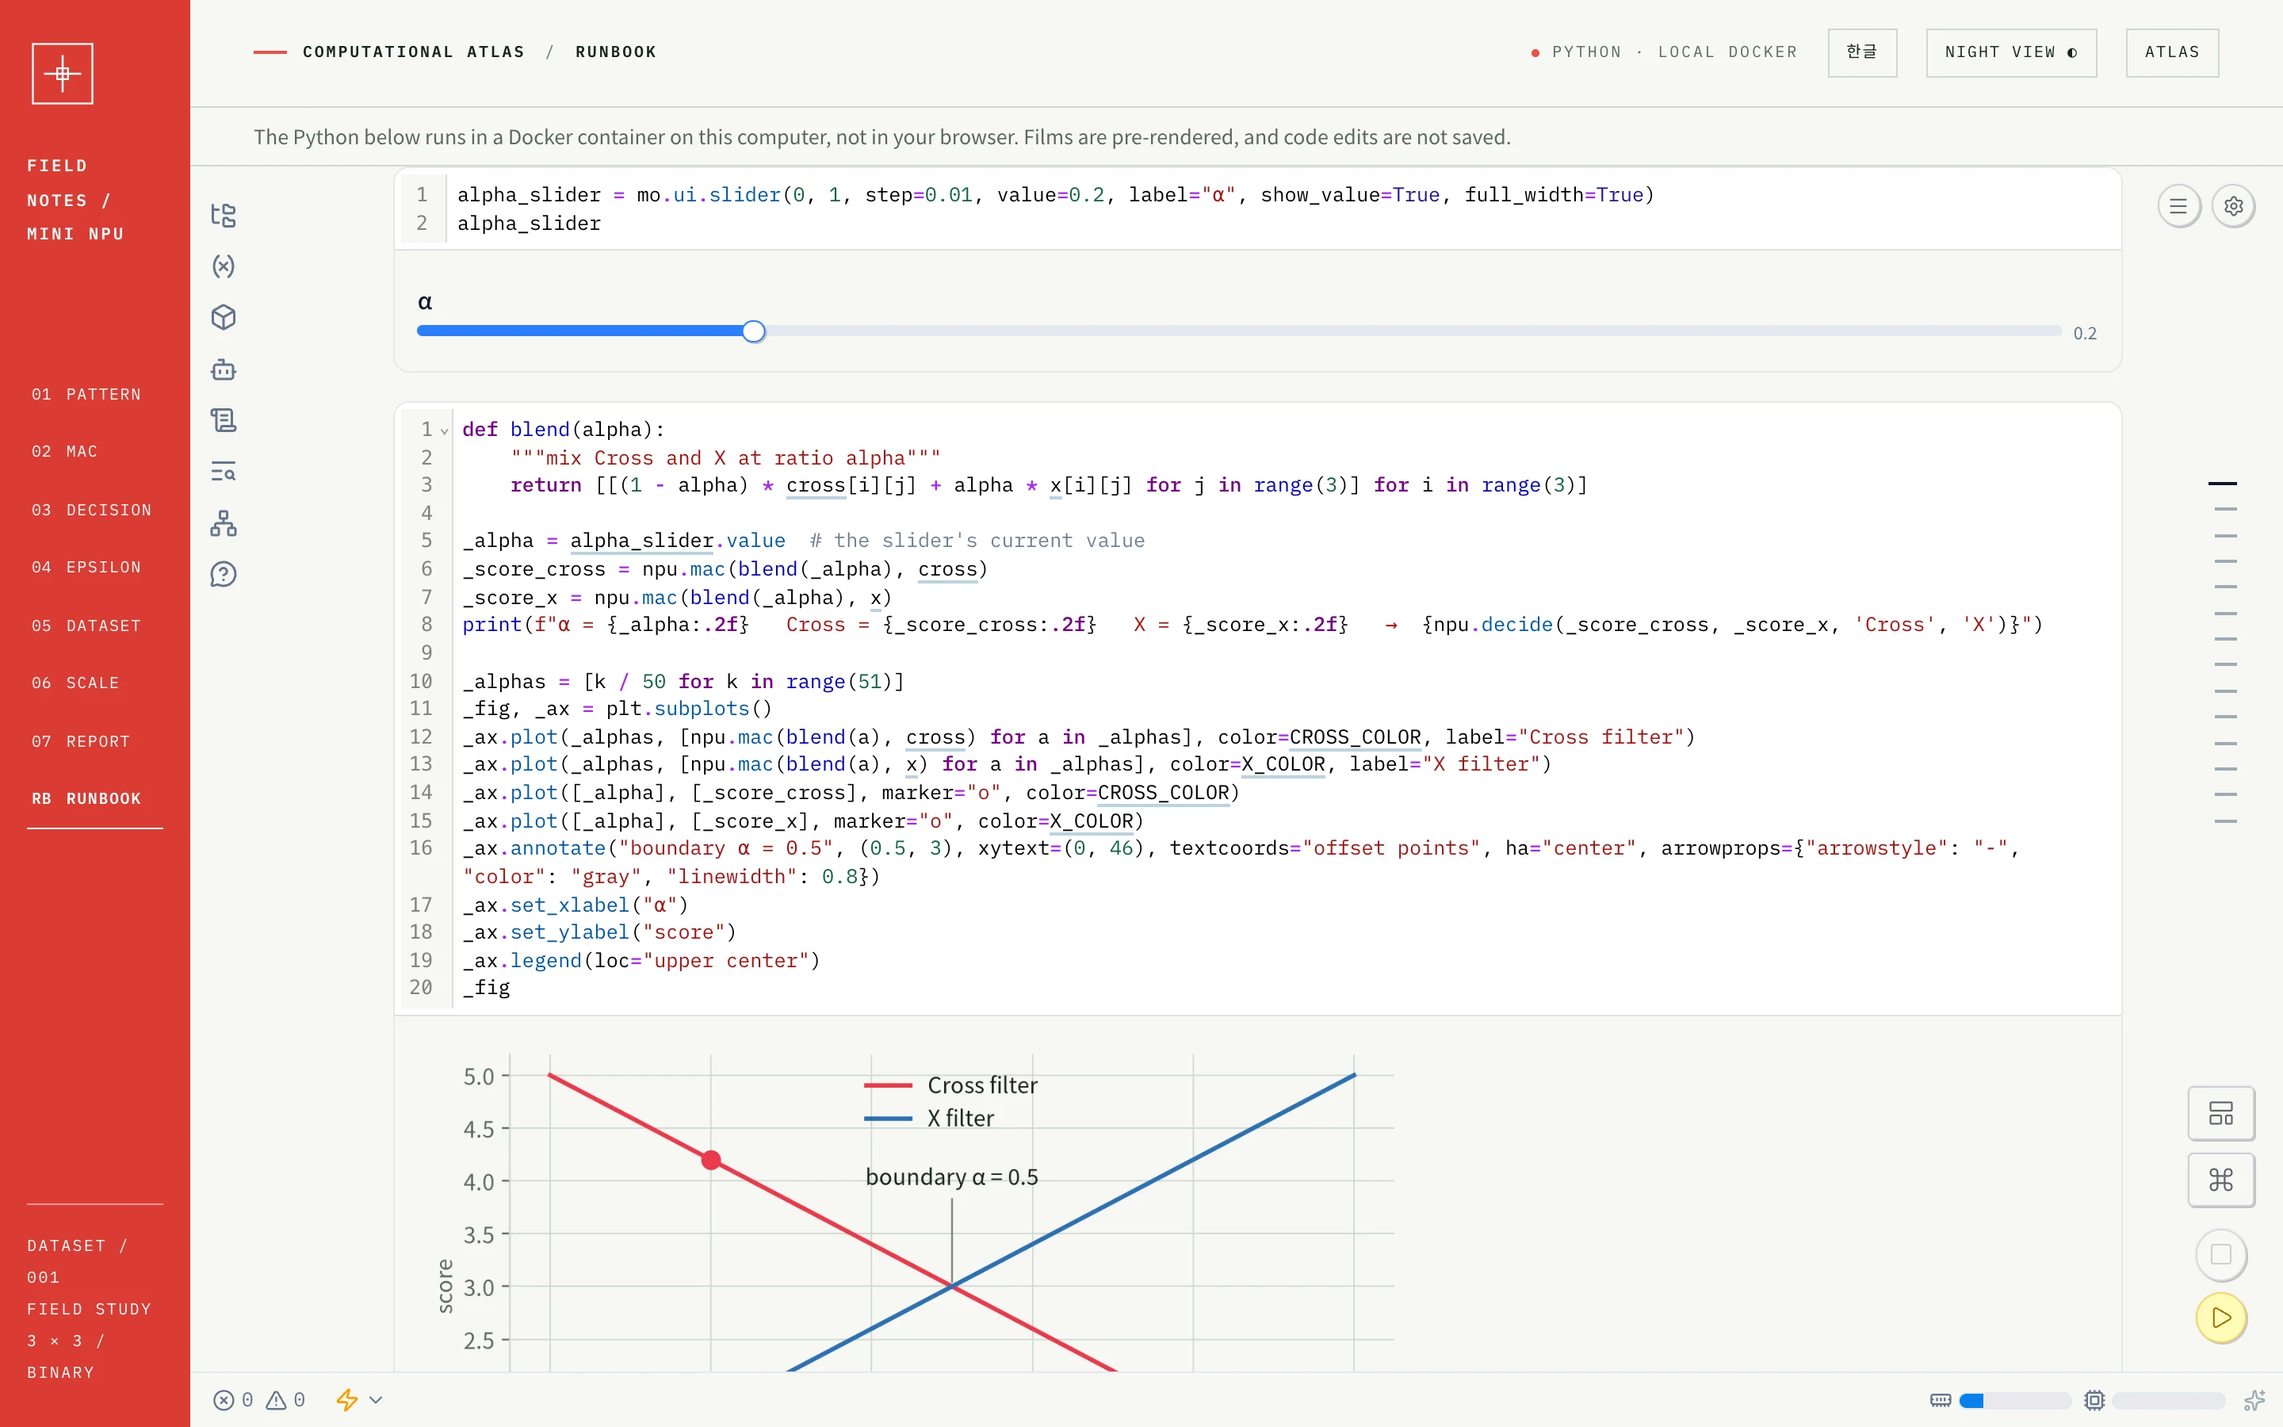
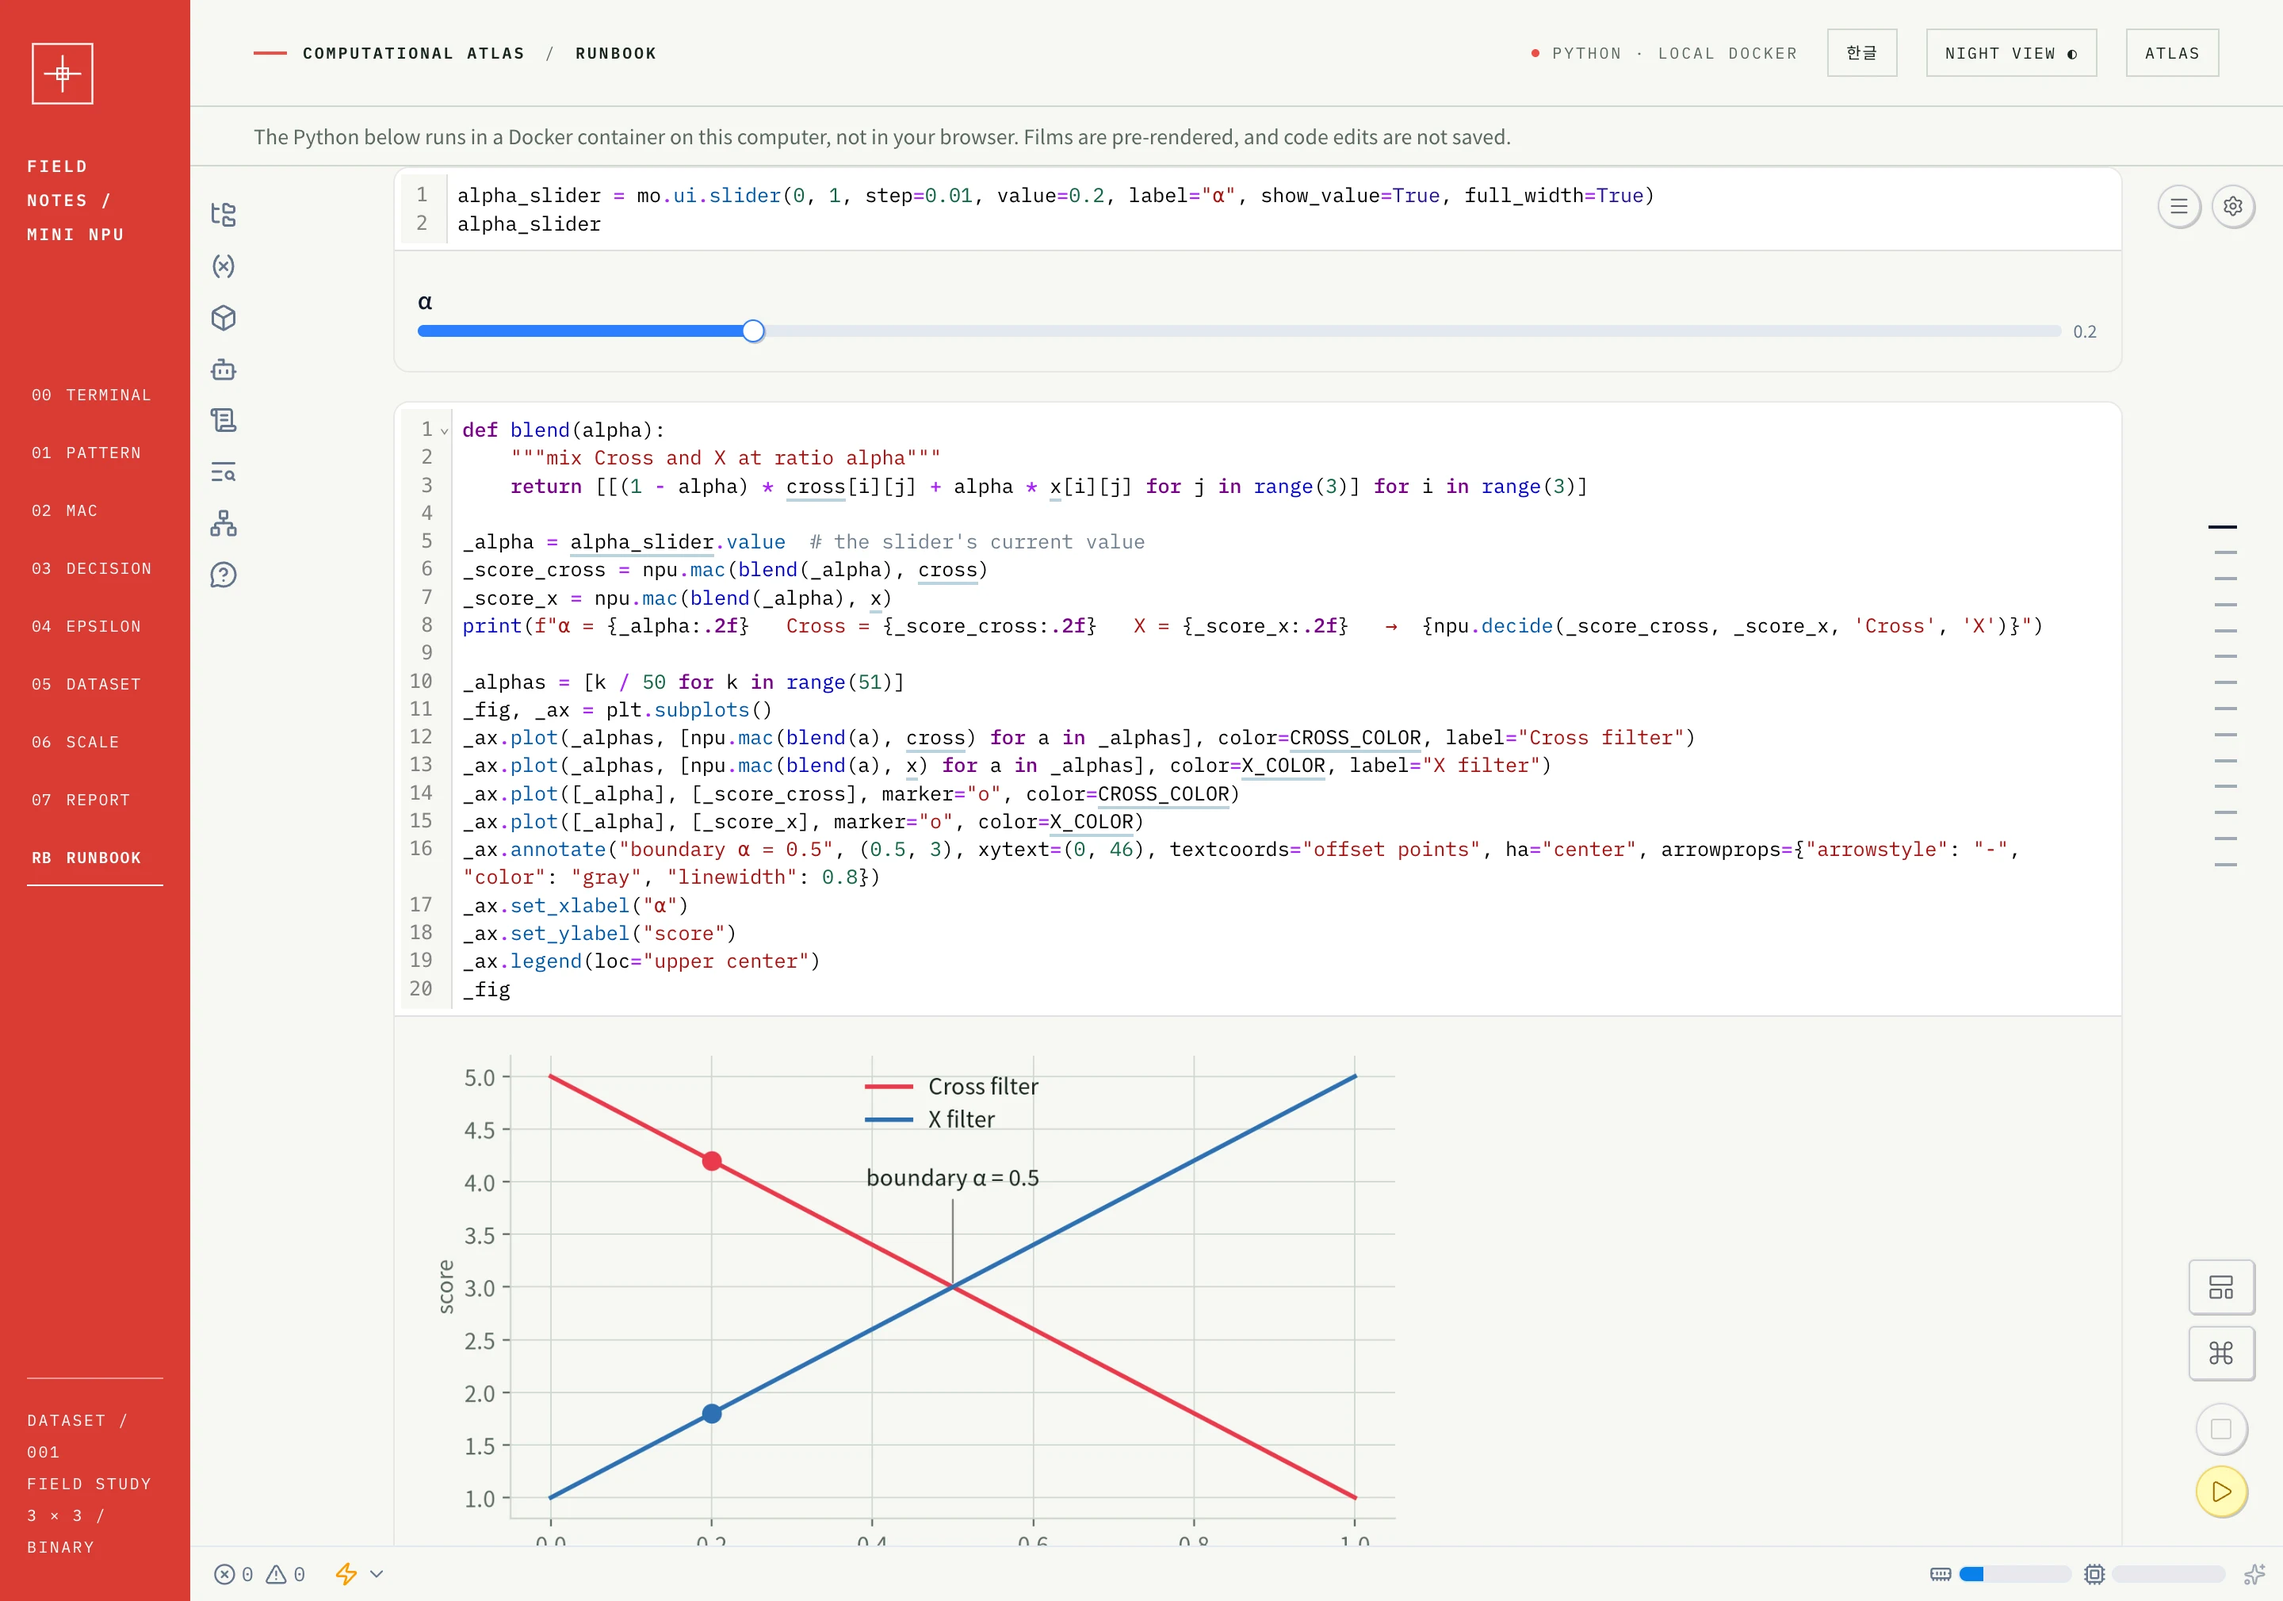
Move to image 1.1.0 with the in-page terminal

diff --git a/README.md b/README.md
@@ -7,7 +7,7 @@
 | 결과물 | 위치 | 요구 사항 |
 |---|---|---|
 | **A. 과제 제출 프로그램** | `main.py` | Python 3.8 이상, 표준 라이브러리만 사용 |
-| **B. Rain Atlas 학습 자료** (시뮬레이터, 런북, Manim 영상) | Docker 이미지 `jidoil/mini-npu-atlas` | Docker |
+| **B. Rain Atlas 학습 자료** (시뮬레이터, 터미널, 런북, Manim 영상) | Docker 이미지 `jidoil/mini-npu-atlas` | Docker |
 
 `main.py`는 웹, 노트북 도구, Manim을 import하지 않습니다. 이 저장소에는 A의 코드만 있고, B는 소스 없이 이미지로 제공합니다. 이미지를 받지 않아도 A는 그대로 동작합니다.
 
@@ -15,7 +15,7 @@
 
 ## 화면
 
-공개 이미지 `jidoil/mini-npu-atlas:1.0.0`에서 찍은 화면입니다. 표시된 결과는 데모 데이터 기준입니다.
+공개 이미지 `jidoil/mini-npu-atlas:1.1.0`에서 찍은 화면입니다. 표시된 결과는 데모 데이터 기준입니다.
 
 ### MAC 시뮬레이터
 
@@ -48,6 +48,12 @@
 **최종 분석.** 실패 원인 분류와 검증 결과입니다.
 
 ![실패 분류와 검증 요약](docs/screenshots/ko/chapter-report.webp)
+
+### 터미널
+
+왼쪽의 실제 셸에서 과제 요구 사항을 직접 실행합니다. 오른쪽 가이드의 ▶를 누르면 명령이 셸로 전송되고, 단계별로 나와야 할 결과를 함께 보여 줍니다.
+
+![셸과 순서별 가이드가 나란히 있는 터미널 페이지](docs/screenshots/ko/terminal.webp)
 
 ### 런북
 
@@ -85,9 +91,10 @@ docker compose up -d
 | 주소 | 내용 |
 |---|---|
 | http://localhost:8790 | Rain Atlas (한/영, Day/Night 전환) |
+| http://localhost:8790/terminal.html | 브라우저 안의 셸과 순서별 가이드 (ttyd) |
 | http://localhost:8790/runbook.html | 사이트 안에 내장된 런북 (marimo) |
 
-포트를 바꾸려면 `ATLAS_PORT=9000 docker compose up -d`를 사용합니다. 런북은 토큰 없이 코드를 실행하므로 `127.0.0.1`에만 공개하고, nginx가 다른 사이트에서 오는 요청을 막습니다. **다른 컴퓨터에서 접근 가능하게 바꾸지 마세요.**
+포트를 바꾸려면 `ATLAS_PORT=9000 docker compose up -d`를 사용합니다. 터미널과 런북은 토큰 없이 코드를 실행하므로 `127.0.0.1`에만 공개하고, nginx가 다른 사이트에서 오는 요청을 막습니다. **다른 컴퓨터에서 접근 가능하게 바꾸지 마세요.**
 
 런북을 연 채로 서버를 재시작하면 셀이 실행되지 않은 상태로 열릴 수 있습니다. 이때는 화면의 **Restart** 버튼을 누르세요.
 
@@ -96,6 +103,14 @@ docker compose up -d
 | 콘솔 프로그램 | `docker compose run --rm cli` |
 | 단위 테스트 | `docker compose run --rm cli python -m unittest discover -s tests` |
 | 종료 | `docker compose down` |
+
+## 터미널
+
+왼쪽 레일의 `00`이나 상단 `TERMINAL`을 누르면 열립니다. 환경 확인, Mode 1, Mode 2, 판정 규칙, 성능 측정, 단위 테스트까지 아홉 단계를 순서대로 실행합니다.
+
+- 셸은 브라우저가 아니라 로컬 Docker 컨테이너에서 실행됩니다.
+- 코드는 읽기 전용이고, `/tmp`에 쓴 파일은 컨테이너를 재시작하면 사라집니다.
+- 페이지를 새로 고치면 셸 세션과 진행 표시가 처음으로 돌아갑니다. 언어를 바꿔도 셸 세션은 유지됩니다.
 
 ## 런북
 
@@ -232,5 +247,6 @@ docs/screenshots/       README 화면
 - 공식 `data.json`이 없어 실패 분석과 성능 값은 데모 데이터 기준입니다.
 - 웹 디자인은 프로토타입 `mini_npu_rain_atlas.html`에서 출발해 정체성을 유지하면서 다듬었으므로 원본과 같지 않습니다. 원본은 실행 후 http://localhost:8790/reference/mini_npu_rain_atlas.html 에서 볼 수 있습니다.
 - 웹 글꼴 일부는 Google Fonts에서 받으므로 오프라인에서는 대체 글꼴로 표시됩니다. 기능에는 영향이 없습니다.
+- 터미널은 공식 릴리스 `ttyd` 1.7.7 바이너리를 빌드할 때 SHA-256으로 확인해 이미지에 넣습니다. 직접 작성한 코드가 아닙니다.
 - Atlas와 런북의 소스는 이 저장소에 없으므로, 이미지 없이는 B를 실행할 수 없습니다.
 - Manim 영상은 미리 렌더링한 것이며 실시간 계산이 아닙니다. 영상의 25 MAC 유닛은 설명용이며 실제 칩의 사양이 아닙니다.

diff --git a/README.en.md b/README.en.md
@@ -7,7 +7,7 @@ A console program that compares numeric patterns from 3×3 to 25×25 against fil
 | Result | Location | Requires |
 |---|---|---|
 | **A. Assignment program** | `main.py` | Python 3.8+, standard library only |
-| **B. Rain Atlas learning material** (simulator, runbook, Manim films) | Docker image `jidoil/mini-npu-atlas` | Docker |
+| **B. Rain Atlas learning material** (simulator, terminal, runbook, Manim films) | Docker image `jidoil/mini-npu-atlas` | Docker |
 
 `main.py` does not import the web code, notebook tools or Manim. This repository holds only the code of A; B ships as an image, without its source. A works without ever pulling the image.
 
@@ -15,7 +15,7 @@ A console program that compares numeric patterns from 3×3 to 25×25 against fil
 
 ## Screens
 
-Captured from the public image `jidoil/mini-npu-atlas:1.0.0`. The results shown come from the demo data.
+Captured from the public image `jidoil/mini-npu-atlas:1.1.0`. The results shown come from the demo data.
 
 ### MAC simulator
 
@@ -48,6 +48,12 @@ On a phone, the matrices and the accumulator panel stack vertically.
 **Final analysis.** Failure categories and verification results.
 
 ![Failure categories and verification summary](docs/screenshots/en/chapter-report.webp)
+
+### Terminal
+
+Run the assignment yourself in the real shell on the left. Press ▶ in the guide on the right to send a command to the shell; each step shows the result to expect.
+
+![The terminal page, with the shell beside an ordered guide](docs/screenshots/en/terminal.webp)
 
 ### Runbook
 
@@ -85,9 +91,10 @@ The first run downloads the image (about 670 MiB compressed). It holds the site,
 | Address | Contents |
 |---|---|
 | http://localhost:8790 | Rain Atlas (Korean/English, Day/Night) |
+| http://localhost:8790/terminal.html | A shell in the browser with an ordered guide (ttyd) |
 | http://localhost:8790/runbook.html | The runbook, built into the site (marimo) |
 
-To change the port, run `ATLAS_PORT=9000 docker compose up -d`. The runbook executes code without a token, so it is published on `127.0.0.1` only and nginx refuses requests coming from other sites. **Do not make it reachable from other machines.**
+To change the port, run `ATLAS_PORT=9000 docker compose up -d`. The terminal and the runbook execute code without a token, so they are published on `127.0.0.1` only and nginx refuses requests coming from other sites. **Do not make it reachable from other machines.**
 
 If the server restarts while a runbook is open, the runbook may open with its cells not yet run. Press the **Restart** button on the page.
 
@@ -96,6 +103,14 @@ If the server restarts while a runbook is open, the runbook may open with its ce
 | Console program | `docker compose run --rm cli` |
 | Unit tests | `docker compose run --rm cli python -m unittest discover -s tests` |
 | Stop | `docker compose down` |
+
+## Terminal
+
+Open it with `00` on the rail or `TERMINAL` in the top bar. Nine steps run in order, from checking the environment through Mode 1, Mode 2, the decision rules and performance to the unit tests.
+
+- The shell runs in a local Docker container, not in your browser.
+- The code is read-only, and files written to `/tmp` disappear when the container restarts.
+- Reloading the page starts a new shell session and resets the progress. Switching language keeps the session.
 
 ## Runbook
 
@@ -232,5 +247,6 @@ docs/screenshots/       README screens
 - Without the official `data.json`, the failure analysis and performance figures are based on demo data.
 - The web design starts from the prototype `mini_npu_rain_atlas.html` and refines it while keeping its identity, so it is not identical to the original. Once running, the original is at http://localhost:8790/reference/mini_npu_rain_atlas.html.
 - Some web fonts come from Google Fonts, so fallback fonts appear offline. Functions are unaffected.
+- The terminal uses the official `ttyd` 1.7.7 release binary, checked by SHA-256 when the image is built. It is not code written for this project.
 - The source of the Atlas and runbook is not in this repository, so B cannot run without the image.
 - The Manim films are pre-rendered, not live computation. The 25 MAC units in the film are an illustration, not a real chip's specification.
